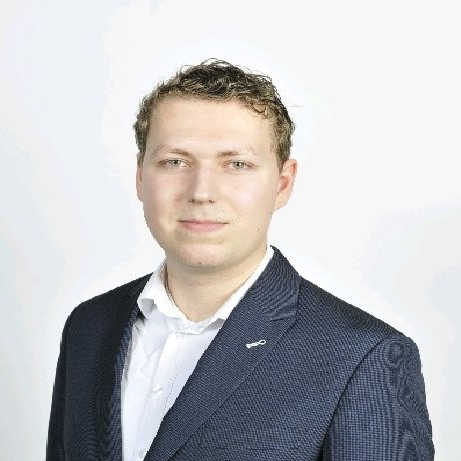
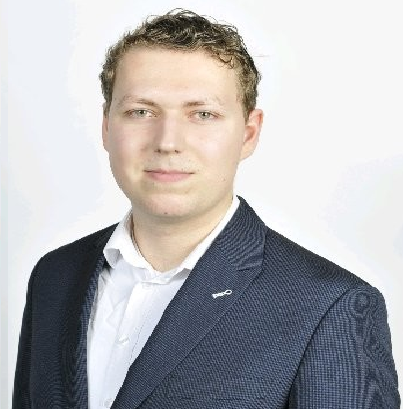
Added antoine picture

diff --git a/app/templates/index.html b/app/templates/index.html
@@ -526,7 +526,7 @@
             <div class="single-team-member">
               <div class="team-img">
                 <a href="#">
-										<img src="static/Front_end/img/team/4.png" alt="">
+										<img src="static/Front_end/img/team/4.jpg" alt="">
 									</a>
                 <div class="team-social-icon text-center">
                   <ul>
